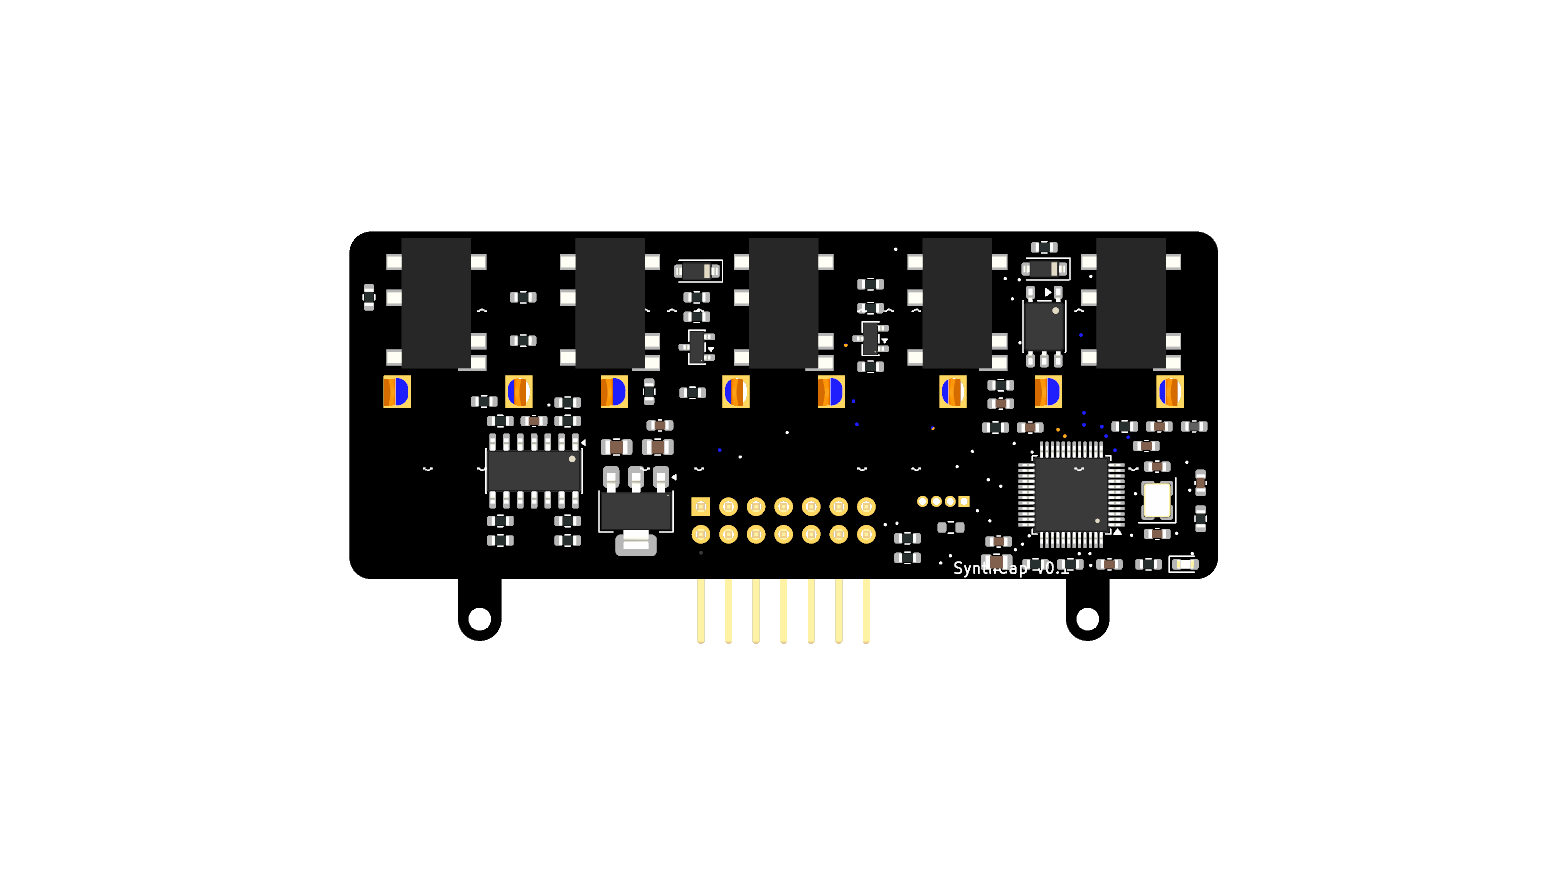
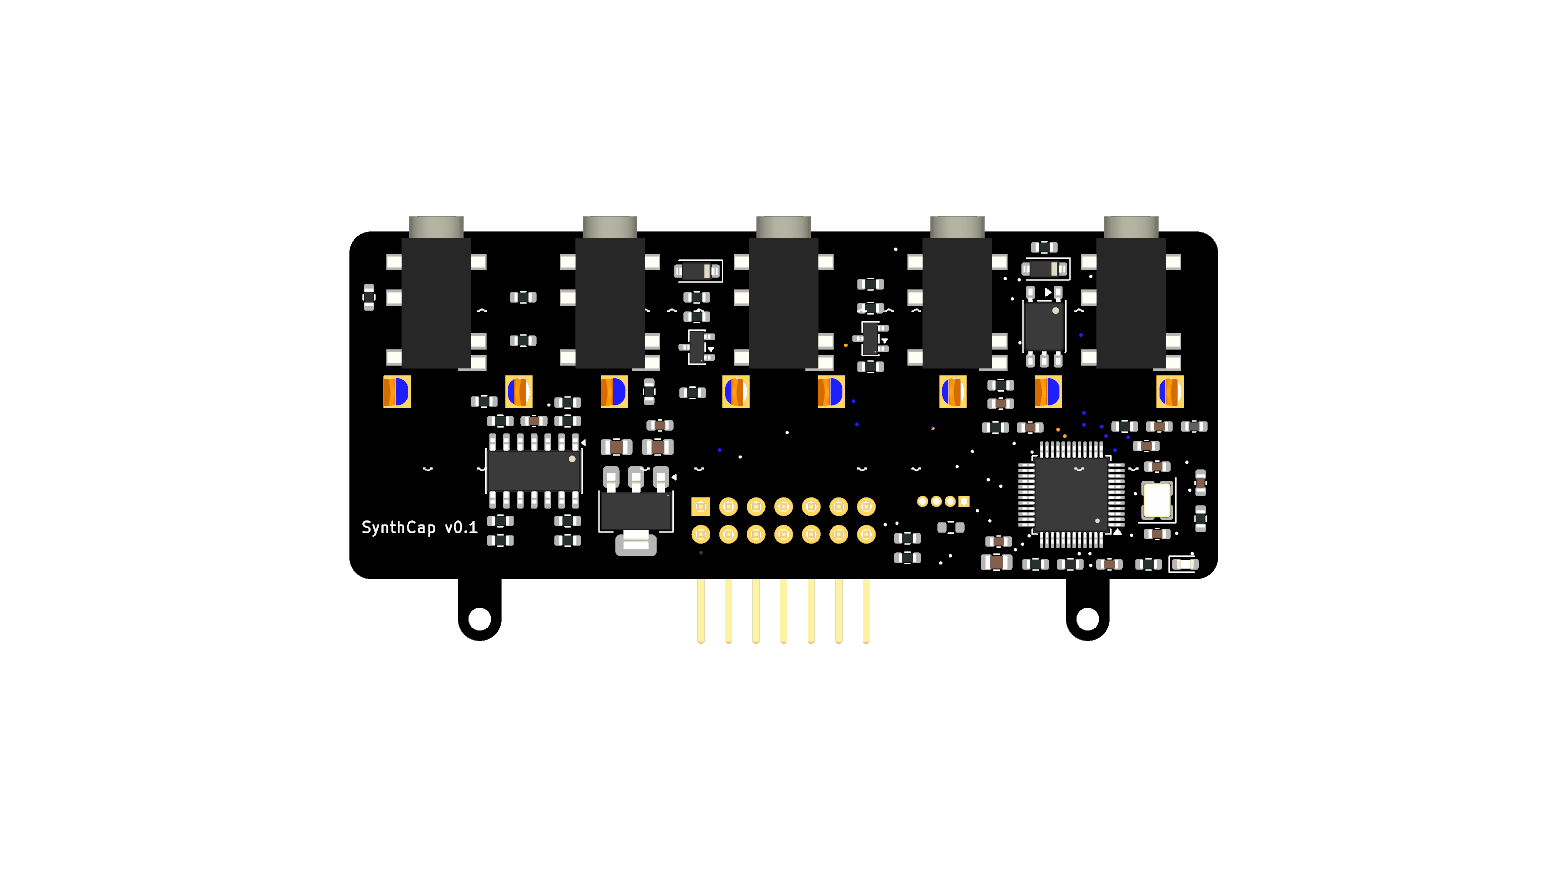
Fix jack 3D model barrel, move back silk text, add renders
- PJ-342.wrl: draw the barrel as a face set (Cylinder was not rendered)
- Move the 'SynthCap v0.1' text off the components
- Add perspective render and shell preview

diff --git a/README.md b/README.md
@@ -6,6 +6,8 @@ A MIDI / CV interface "Cap" for the M5Stack CardputerZero. It plugs into the EXT
 |---|---|
 | ![top](docs/render_top.png) | ![bottom](docs/render_bottom.png) |
 
+![perspective](docs/render_persp.png)
+
 **Status: work in progress.** The board has been auto-routed but never built. Nothing here is tested on hardware.
 
 ## Features
